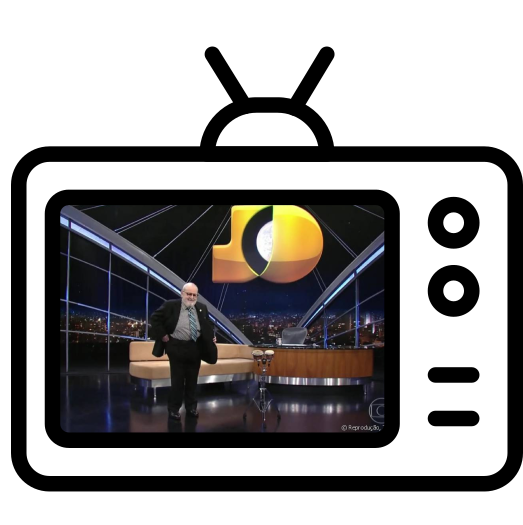
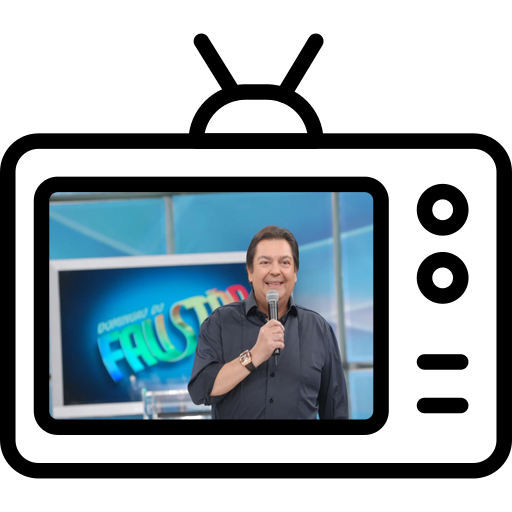
funcionamento da televisao finalizada

diff --git a/src/Funçao Reconhecedora/index.jsx b/src/Funçao Reconhecedora/index.jsx
@@ -14,8 +14,8 @@ export default function ReconhecerLinguagem(){
     const [statusOutPut, setStatusOutPut] = useState('') // guardara ACEITA, REJEITA ou FUNCAO INDEFINIDA
     
     const [csvFile, setCsvFile] = useState()
-    const [volume, setVolume] = useState(0)
-
+    const [volume, setVolume] = useState(0)  // controla o volume da televisão
+    const [channel, changeChannel] = useState(0) // canal 0 significa que a televisao esta desligada
     // satura o volume em 5 e 0
     useEffect(() => {
         if (volume > 5)
@@ -85,7 +85,7 @@ export default function ReconhecerLinguagem(){
                     </div>
                 </div>
                 <div className={styles.television}>
-                    <Televisao/>
+                    <Televisao change_channel={channel}/>
                     <Volume volume_set={volume}/>
                 </div>
             <div className={styles.status}>
@@ -158,8 +158,10 @@ function Fp(palavraEntrada,step=false){
         // da funcao indefinida
         if (estadoAtual === 'q0'){
             setVolume(0)
+            changeChannel(0)
             switch (palavraAtual){
                 case 'L': 
+                    changeChannel(e => e+=1)
                     estadoAtual= 'q1'
                     break
                 case 'D':
@@ -204,9 +206,11 @@ function Fp(palavraEntrada,step=false){
                     break
                 case 'TC':
                     estadoAtual='q1'
+                    changeChannel( e => e+=1)
                     break
                 case 'D':
                     estadoAtual= 'q0'
+                    changeChannel(0)
                     break
                 case 'M':
                     estadoAtual='qM'
@@ -227,9 +231,11 @@ function Fp(palavraEntrada,step=false){
             switch(palavraAtual){
                 case 'TC':
                     estadoAtual = 'qA1'
+                    changeChannel( e => e+=1)
                     break
                 case 'M':
                     estadoAtual = 'qM'
+                    setVolume(0)
                     break
                 case 'AV':
                     estadoAtual = 'qA2' 
@@ -257,6 +263,7 @@ function Fp(palavraEntrada,step=false){
                     break
                 case 'D':
                     estadoAtual='q0'
+                    changeChannel(0)
                     break
                 default:
                     setStatusOutPut('FUNÇÃO INDEFINIDA')
@@ -272,7 +279,8 @@ function Fp(palavraEntrada,step=false){
             setVolume(2)
             switch(palavraAtual){
                 case 'TC':
-                    estadoAtual = 'qA2'  
+                    estadoAtual = 'qA2'
+                    changeChannel( e => e+=1)
                     break  
                 case 'M':
                     estadoAtual = 'qM'
@@ -303,7 +311,8 @@ function Fp(palavraEntrada,step=false){
                     setVolume(e => e -= 1)
                     break   
                 case 'D':
-                    estadoAtual = 'q0' 
+                    estadoAtual = 'q0'
+                    changeChannel(0) 
                     break            
                 default:
                     setStatusOutPut('FUNÇÃO INDEFINIDA')
@@ -319,10 +328,12 @@ function Fp(palavraEntrada,step=false){
             setVolume(3)
             switch(palavraAtual){
                 case 'TC':
-                    estadoAtual = 'qA3'    
+                    estadoAtual = 'qA3'
+                    changeChannel( e => e+=1)
                     break
                 case 'D':
-                    estadoAtual = 'q0'    
+                    estadoAtual = 'q0'
+                    changeChannel(0)   
                     break
                 case 'DV':
                     estadoAtual = 'qA2'
@@ -366,6 +377,7 @@ function Fp(palavraEntrada,step=false){
             switch(palavraAtual){
                 case 'TC':
                     estadoAtual = 'qA4'
+                    changeChannel( e => e+=1)
                     break
                 case 'AV':
                     estadoAtual = 'qA5'
@@ -393,6 +405,7 @@ function Fp(palavraEntrada,step=false){
                     break
                 case 'D':
                     estadoAtual = 'q0'
+                    changeChannel(0)
                     break
                 case 'M':
                     estadoAtual = 'qM'
@@ -413,9 +426,11 @@ function Fp(palavraEntrada,step=false){
             switch(palavraAtual){
                 case 'TC':
                     estadoAtual = 'qA5'
+                    changeChannel( e => e+=1)
                     break
                 case 'D':
                     estadoAtual = 'q0'
+                    changeChannel(0)
                     break
                 case 'AV':
                     estadoAtual = 'qA5'
@@ -443,6 +458,7 @@ function Fp(palavraEntrada,step=false){
                     break
                 case 'D':
                     estadoAtual = 'q0'
+                    changeChannel(0)
                     break
                 case 'M':
                     estadoAtual = 'qM'
@@ -459,7 +475,7 @@ function Fp(palavraEntrada,step=false){
         }
         // Estado volume = 0
         else if(estadoAtual === 'qM'){
-            setVolume(0)
+            setVolume(e => e = 0)
             switch(palavraAtual){
                 case 'DV':
                     estadoAtual = 'qM'
@@ -470,9 +486,11 @@ function Fp(palavraEntrada,step=false){
                     break
                 case 'TC':
                     estadoAtual = 'qM'
+                    changeChannel( e => e+=1)
                     break
                 case 'D':
                     estadoAtual = 'q0'
+                    changeChannel(0)
                     break
                 case 'AV':
                     estadoAtual = 'qA1'

diff --git a/src/Televisão/index.jsx b/src/Televisão/index.jsx
@@ -1,11 +1,18 @@
-import { useState } from 'react'
+import { useEffect, useState } from 'react'
 import styles from './styles.module.css'
-export default function Televisao(){
+export default function Televisao({change_channel}){
     const canais = ['/CANAL1.png', '/CANAL2.png', '/CANAL3.png' , '/CANAL4.png', '/CANAL5.png', '/CANAL6.png',
     '/CANAL7.png', '/CANAL8.png', '/CANAL9.png', '/CANAL10.png']
     const [channel, setChannel] = useState(canais[0])
-    let last_channel = -1 
+    let last_channel = -1
 
+    useEffect(() =>{
+        if(change_channel === 0){
+            setChannel('/CANALDESLIGADA.png')
+        } else{
+            setChannel(RandomizeChannel)
+        }
+    },[change_channel])
     return(
         <div className={styles.container}>
             <img src={channel} onClick={() => {setChannel(RandomizeChannel)}}/>
@@ -14,7 +21,11 @@ export default function Televisao(){
 
 
     function RandomizeChannel(){
-        return canais[parseInt(Math.random() * 10)]
+        let new_channel = canais[parseInt(Math.random() * 10)]
+        while(new_channel === last_channel){
+            new_channel = canais[parseInt(Math.random() * 10)]
+        }
+        return new_channel
     }
 
 }

diff --git a/src/VolumeCounter/index.jsx b/src/VolumeCounter/index.jsx
@@ -4,12 +4,10 @@ export default function Volume({volume_set}){
 // Componente responsável pelo controle do volume
 
     let volume_counter = []
-    console.log(volume_counter)
     let aux_volume = volume_set;
     const [volumeStatus, setVolumeStatus] = useState('')
 
     while (aux_volume > 0){
-        console.log('entrei')
         volume_counter.push('*')
         aux_volume -= 1
     }
